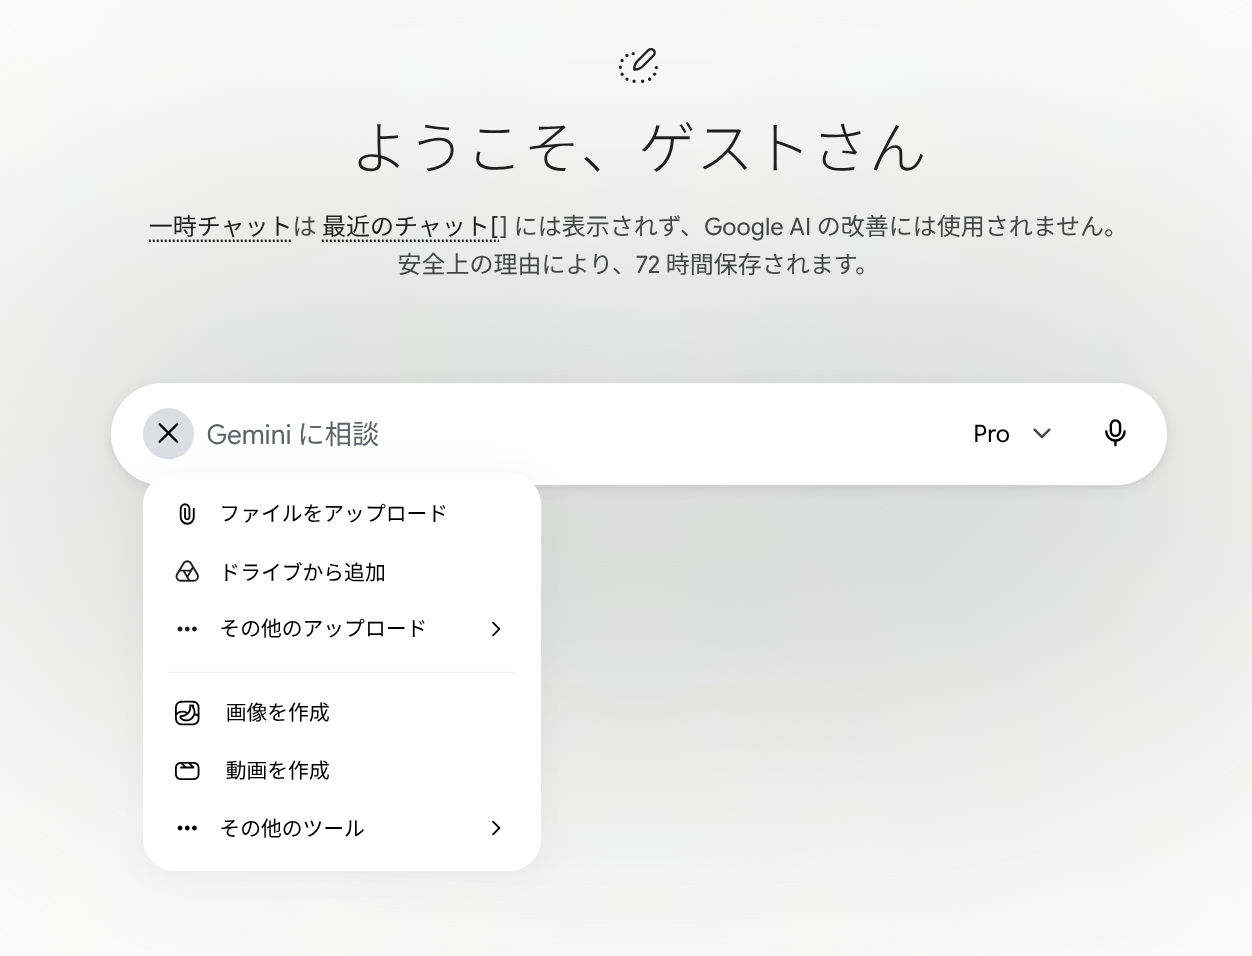
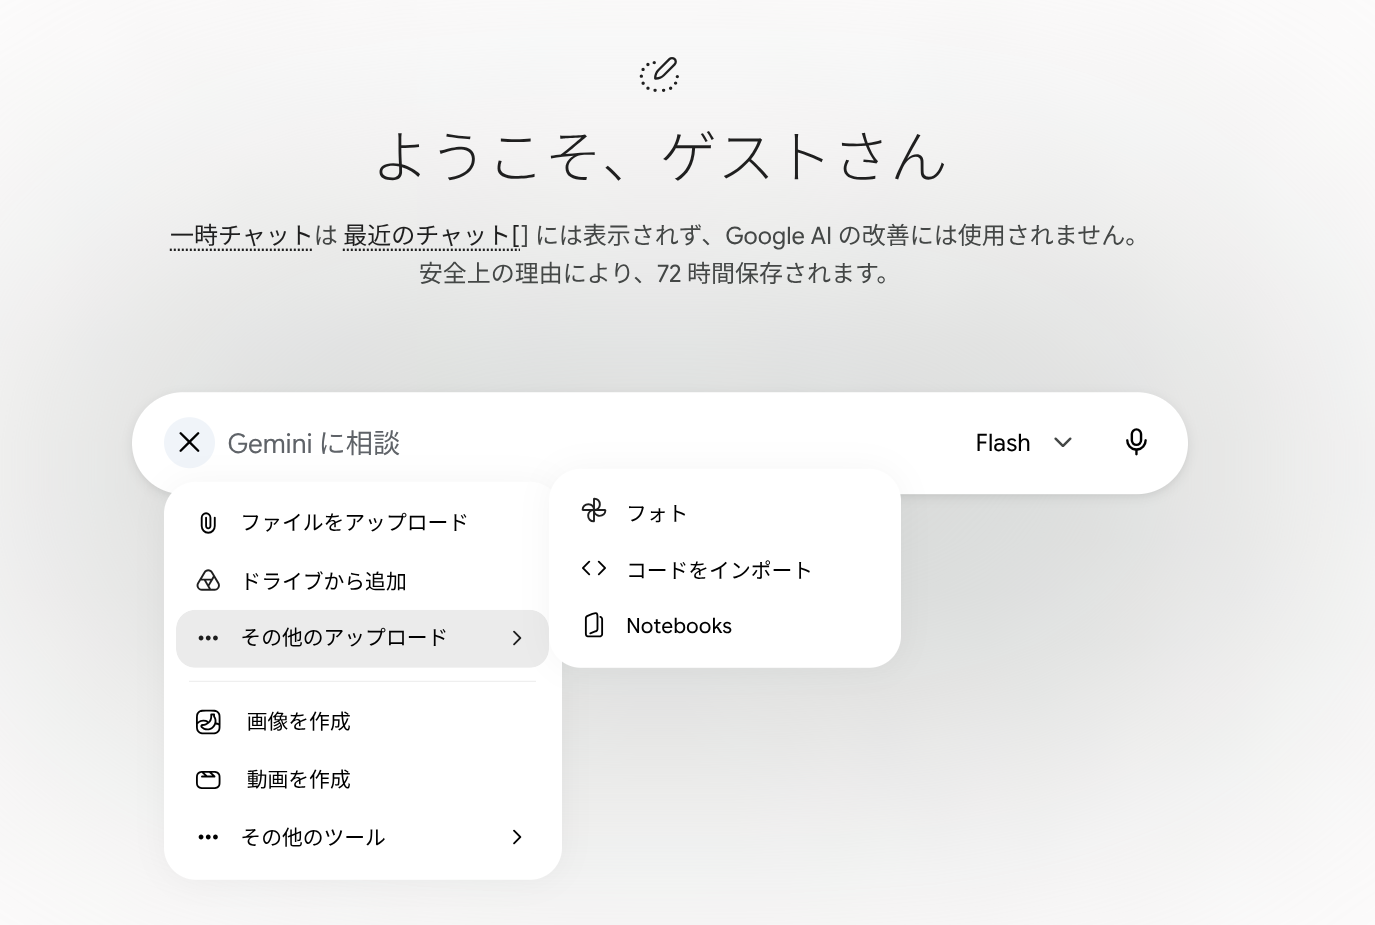
update: 画像差し替え&トピック修正

Changed region(s): [[0.0935, 0.3935, 0.9034, 0.9081], [0.1246, 0.1211, 0.8722, 0.3027], [0.4673, 0.0303, 0.5296, 0.0908]]

diff --git a/articles/20260812-gemini-character.md b/articles/20260812-gemini-character.md
@@ -2,7 +2,7 @@
 title: "Gemini Notebookに「キャラクターの人格」を構築し、Geminiで対話させるプロンプト術"
 emoji: "💬"
 type: "tech" # tech: 技術記事 / idea: アイデア
-topics: ["Gemini","Gemini Notebook","生成AI","プロンプトエンジニアリング","LLM"]
+topics: ["Gemini","GeminiNotebook","生成AI","プロンプトエンジニアリング","NotebookLM"]
 published: true
 ---
 
